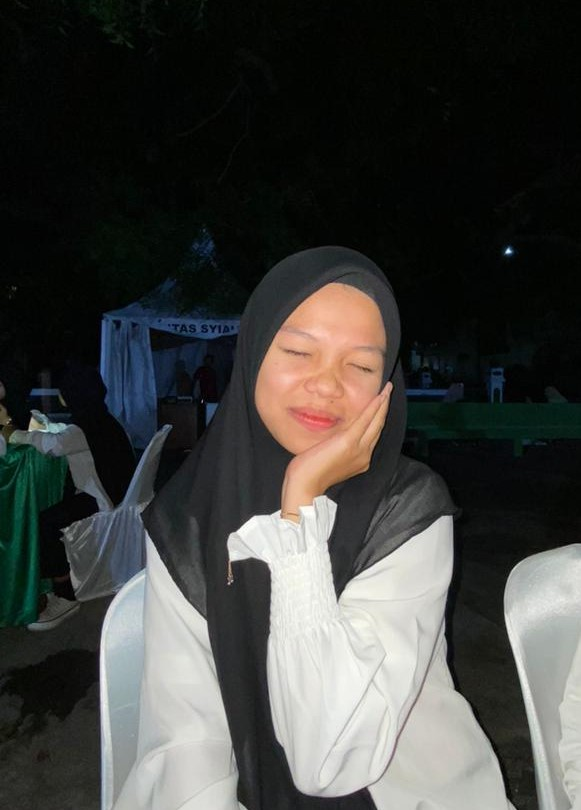
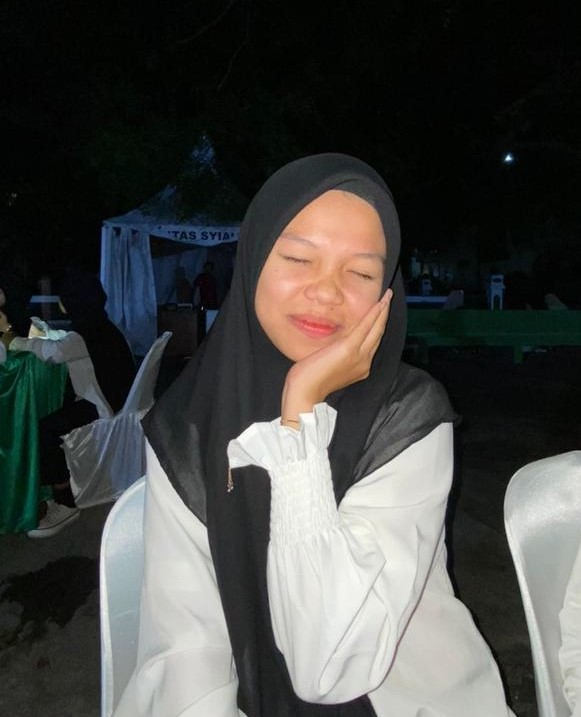
Add files via upload

diff --git a/index.html b/index.html
@@ -76,12 +76,12 @@
                      <div class="carousel-item active">
                         <div class="row">
                            <div class="col-md-6">
-                              <div class="banner_img"><img src="buah_keranjang__1___1_-removebg-preview.png"></div>
+                              <div class="banner_img"><img src="buah_dalam_keranjang.png"></div>
                            </div>
                            <div class="col-md-6">
                               <div class="banner_taital_main">
                                  <h1 class="banner_taital">Cindy's Fruit Store</h1>
-                                 <h5 class="tasty_text">Buah Pilihan,Rasa Menawan!  </h5>
+                                 <h5 class="tasty_text">Buah Pilihan, Rasa Menawan! </h5>
                                  <p class="banner_text">Pilihan Buah Terbaik untuk Keluarga Anda.  Kualitas Buah Terbaik, Hanya di Cindy's Fruit Store! </p>
                                  <div class="btn_main">
                                     <div class="about_bt"><a href="#">About Us</a></div>
@@ -99,7 +99,7 @@
                            <div class="col-md-6">
                               <div class="banner_taital_main">
                                  <h1 class="banner_taital">Cindy's Fruit Store</h1>
-                                 <h5 class="tasty_text">Buah Pilihan</h5>
+                                 <h5 class="tasty_text">Buah Pilihan, Rasa Menawan!</h5>
                                  <p class="banner_text">Pilihan Buah Terbaik untuk Keluarga Anda.  Kualitas Buah Terbaik, Hanya di Cindy's Fruit Store! </p>
                                  <div class="btn_main">
                                     <div class="about_bt"><a href="#">About Us</a></div>
@@ -280,7 +280,7 @@
             <div class="client_section_2">
                <div class="client_taital_main">
                   <div class="client_left">
-                     <div class="client_img"><img src="foto owner .jpg"></div>
+                     <div class="client_img"><img src="foto_owner_-removebg-preview.png"></div>
                   </div>
                   <div class="client_right">
                      <h3 class="moark_text">Cindy Wulandari</h3>
@@ -428,7 +428,7 @@
                         <li><a href="#"><i class="fa fa-facebook" aria-hidden="true"></i></a></li>
                         <li><a href="#"><i class="fa fa-twitter" aria-hidden="true"></i></a></li>
                         <li><a href="#"><i class="fa fa-linkedin" aria-hidden="true"></i></a></li>
-                        <li><a href="#"><i class="fa fa-instagram" aria-hidden="true"></i></a></li>
+                        <li><a href="https://www.instagram.com/cindywulandari09?igsh=b2c4Y3Q5bHY1MDNx"><i class="fa fa-instagram" aria-hidden="true"></i></a></li>
                      </ul>
                   </div>
                </div>

diff --git a/about.html b/about.html
@@ -81,12 +81,6 @@
             </div>
             <div class="about_section_2 layout_padding">
                <div class="image_iman"><img src="Toko Buah.webp" class="about_img"></div>
-               <div class="about_taital_box">
-                  <h1 class="about_taital_1">Coffee distribution '</h1>
-                  <p class=" about_text">has a more-or-less normal distribution of letters, as opposed to using 'Content here, content here', making it look like readable English. Many desktop publishing packages and web page editorhas a more-or-less normal distribution of letters, as opposed to using 'Content here, content here', making it look like readable English. Many desktop publishing packages and web page editor</p>
-                  <div class="readmore_btn"><a href="#">Read More</a></div>
-               </div>
-            </div>
          </div>
       </div>
       <!-- about section end -->
@@ -133,7 +127,7 @@
                         <li><a href="#"><i class="fa fa-facebook" aria-hidden="true"></i></a></li>
                         <li><a href="#"><i class="fa fa-twitter" aria-hidden="true"></i></a></li>
                         <li><a href="#"><i class="fa fa-linkedin" aria-hidden="true"></i></a></li>
-                        <li><a href="#"><i class="fa fa-instagram" aria-hidden="true"></i></a></li>
+                        <li><a href="https://www.instagram.com/cindywulandari09?igsh=b2c4Y3Q5bHY1MDNx"><i class="fa fa-instagram" aria-hidden="true"></i></a></li>
                      </ul>
                   </div>
                </div>

diff --git a/blog.html b/blog.html
@@ -83,7 +83,7 @@
                <div class="row">
                   <div class="col-md-6">
                      <div class="blog_box">
-                        <div class="blog_img"><img src="toko 4.jpg"></div>
+                        <div class="blog_img"><img src="toko 4..jpg"></div>
                         <h4 class="date_text">10 november 2024</h4>
                         <h4 class="prep_text">Selamat Datang di "Cindy's Fruit Store" 🍓🍇🍊</h4>
                         <p class="lorem_text">Hai, Sobat Buah! 👋 Ingin hidup lebih sehat dan penuh energi? Di Cindy's Fruit Store, kami punya pilihan buah segar dan berkualitas tinggi yang siap membuat hari-harimu lebih ceria! Mulai dari apel manis, pisang kaya potasium, hingga mangga juara—semua buah kami dipilih dengan cermat untuk memberi manfaat terbaik untukmu.</p>
@@ -92,7 +92,7 @@
                   </div>
                   <div class="col-md-6">
                      <div class="blog_box">
-                        <div class="blog_img"><img src="toko buah 2...jpg"></div>
+                        <div class="blog_img"><img src="rumah buah.png"></div>
                         <h4 class="date_text">10 November 2024</h4>
                         <h4 class="prep_text">Cindy's Fruit Store 🍓🍇🍊 </h4>
                         <p class="lorem_text">✨ Kenapa Cindy’s Fruit Store?

diff --git a/client.html b/client.html
@@ -9,7 +9,7 @@
       <meta name="viewport" content="width=device-width, initial-scale=1">
       <meta name="viewport" content="initial-scale=1, maximum-scale=1">
       <!-- site metas -->
-      <title>Client</title>
+      <title>Owner</title>
       <meta name="keywords" content="">
       <meta name="description" content="">
       <meta name="author" content="">
@@ -173,7 +173,7 @@
                      <a href="#"><i class="fa fa-linkedin" aria-hidden="true"></i></a>
                   </li>
                   <li>
-                     <a href="#"><i class="fa fa-instagram" aria-hidden="true"></i></a>
+                     <a href="https://www.instagram.com/cindywulandari09?igsh=b2c4Y3Q5bHY1MDNx"><i class="fa fa-instagram" aria-hidden="true"></i></a>
                   </li>
                </ul>
             </div>

diff --git a/coffees.html b/coffees.html
@@ -225,7 +225,7 @@
                         <li><a href="#"><i class="fa fa-facebook" aria-hidden="true"></i></a></li>
                         <li><a href="#"><i class="fa fa-twitter" aria-hidden="true"></i></a></li>
                         <li><a href="#"><i class="fa fa-linkedin" aria-hidden="true"></i></a></li>
-                        <li><a href="#"><i class="fa fa-instagram" aria-hidden="true"></i></a></li>
+                        <li><a href="https://www.instagram.com/cindywulandari09?igsh=b2c4Y3Q5bHY1MDNx"><i class="fa fa-instagram" aria-hidden="true"></i></a></li>
                      </ul>
                   </div>
                </div>
